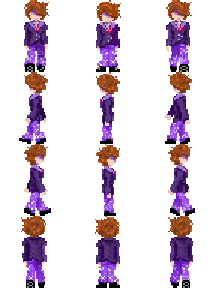
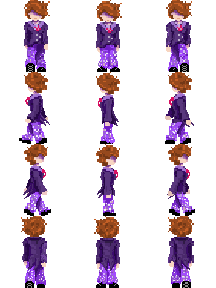
adding jiho, changing lenora sprites, altering lighting

diff --git a/Pelagic Vortex/js/plugins.js b/Pelagic Vortex/js/plugins.js
@@ -8,7 +8,7 @@ var $plugins =
 {"name":"ShakeScreen","status":true,"description":"Simply shakes the screen","parameters":{}},
 {"name":"GALV_MessageSoundEffects","status":true,"description":"Play sound effects when during Show Text event commands.","parameters":{"Delay Time":"5","Default Talk SE":"snd_talk,80,100","Default Confirm SE":"Cursor2,0,100","-----------":"","Quick SE 1":"snd_talk,80,60","Quick SE 2":"snd_tentacletalk,80,100","Quick SE 3":"snd_narrator,80,100","Quick SE 4":""}},
 {"name":"DMY_SkipVideo","status":true,"description":"Skip video on key press","parameters":{"Disabler switch":"0"}},
-{"name":"-ShoraLighting-","status":true,"description":"[v1.8.3] Provide dynamic lighting to RPG Maker MV/MZ engine, intended to be easiest to start and most flexible when advanced!","parameters":{"sep":"","Game":"{\"regionStart\":\"1\",\"regionEnd\":\"10\",\"topRegionId\":\"50\",\"ignoreShadowsId\":\"51\"}","sep0":"","Map":"{\"ambient\":\"#525252\",\"shadowAmbient\":\"#333333\",\"topBlockAmbient\":\"#333333\"}","sep1":"","default":"{\"name\":\"default\",\"filename\":\"lights\",\"status\":\"true\",\"radius\":\"100\",\"angle\":\"0\",\"direction\":\"false\",\"sep0\":\"\",\"tint\":\"#ffffff\",\"colorfilter\":\"{\\\"hue\\\":\\\"0\\\",\\\"colortone\\\":\\\"rgba(0,0,0,0)\\\",\\\"blendcolor\\\":\\\"rgba(0,0,0,0)\\\",\\\"brightness\\\":\\\"255\\\"}\",\"sep1\":\"\",\"offset\":\"{\\\"x\\\":\\\"0\\\",\\\"y\\\":\\\"0\\\"}\",\"animation\":\"{\\\".Static\\\":\\\"=====================\\\",\\\"flicker\\\":\\\"{\\\\\\\"status\\\\\\\":\\\\\\\"true\\\\\\\",\\\\\\\"flickintensity\\\\\\\":\\\\\\\"1\\\\\\\",\\\\\\\"flickspeed\\\\\\\":\\\\\\\"1\\\\\\\"}\\\",\\\".Dynamic\\\":\\\"=====================\\\",\\\"pulse\\\":\\\"{\\\\\\\"status\\\\\\\":\\\\\\\"false\\\\\\\",\\\\\\\"pulsefactor\\\\\\\":\\\\\\\"1\\\\\\\",\\\\\\\"pulsespeed\\\\\\\":\\\\\\\"1\\\\\\\"}\\\",\\\"rotation\\\":\\\"{\\\\\\\"rotatespeed\\\\\\\":\\\\\\\"1\\\\\\\"}\\\"}\",\"sep4\":\"\",\"shadow\":\"true\",\"bwall\":\"false\",\"shadowambient\":\"\",\"shadowoffsetx\":\"0\",\"shadowoffsety\":\"0\"}","LightList":"[\"{\\\"name\\\":\\\"glow\\\",\\\"filename\\\":\\\"fireglow\\\",\\\"status\\\":\\\"true\\\",\\\"radius\\\":\\\"100\\\",\\\"angle\\\":\\\"0\\\",\\\"direction\\\":\\\"false\\\",\\\"sep0\\\":\\\"\\\",\\\"tint\\\":\\\"#ffffff\\\",\\\"colorfilter\\\":\\\"{\\\\\\\"hue\\\\\\\":\\\\\\\"0\\\\\\\",\\\\\\\"colortone\\\\\\\":\\\\\\\"rgba(0,0,0,0)\\\\\\\",\\\\\\\"blendcolor\\\\\\\":\\\\\\\"rgba(0,0,0,0)\\\\\\\",\\\\\\\"brightness\\\\\\\":\\\\\\\"255\\\\\\\"}\\\",\\\"sep1\\\":\\\"\\\",\\\"offset\\\":\\\"{\\\\\\\"x\\\\\\\":\\\\\\\"0\\\\\\\",\\\\\\\"y\\\\\\\":\\\\\\\"0\\\\\\\"}\\\",\\\"animation\\\":\\\"{\\\\\\\".Static\\\\\\\":\\\\\\\"=====================\\\\\\\",\\\\\\\"flicker\\\\\\\":\\\\\\\"{\\\\\\\\\\\\\\\"status\\\\\\\\\\\\\\\":\\\\\\\\\\\\\\\"true\\\\\\\\\\\\\\\",\\\\\\\\\\\\\\\"flickintensity\\\\\\\\\\\\\\\":\\\\\\\\\\\\\\\"3\\\\\\\\\\\\\\\",\\\\\\\\\\\\\\\"flickspeed\\\\\\\\\\\\\\\":\\\\\\\\\\\\\\\"2\\\\\\\\\\\\\\\"}\\\\\\\",\\\\\\\".Dynamic\\\\\\\":\\\\\\\"=====================\\\\\\\",\\\\\\\"pulse\\\\\\\":\\\\\\\"{\\\\\\\\\\\\\\\"status\\\\\\\\\\\\\\\":\\\\\\\\\\\\\\\"false\\\\\\\\\\\\\\\",\\\\\\\\\\\\\\\"pulsefactor\\\\\\\\\\\\\\\":\\\\\\\\\\\\\\\"1\\\\\\\\\\\\\\\",\\\\\\\\\\\\\\\"pulsespeed\\\\\\\\\\\\\\\":\\\\\\\\\\\\\\\"1\\\\\\\\\\\\\\\"}\\\\\\\",\\\\\\\"rotation\\\\\\\":\\\\\\\"{\\\\\\\\\\\\\\\"rotatespeed\\\\\\\\\\\\\\\":\\\\\\\\\\\\\\\"1\\\\\\\\\\\\\\\"}\\\\\\\"}\\\",\\\"sep4\\\":\\\"\\\",\\\"shadow\\\":\\\"true\\\",\\\"bwall\\\":\\\"false\\\",\\\"shadowambient\\\":\\\"\\\",\\\"shadowoffsetx\\\":\\\"0\\\",\\\"shadowoffsety\\\":\\\"0\\\"}\",\"{\\\"name\\\":\\\"redlight\\\",\\\"filename\\\":\\\"redlights\\\",\\\"status\\\":\\\"true\\\",\\\"radius\\\":\\\"150\\\",\\\"angle\\\":\\\"0\\\",\\\"direction\\\":\\\"false\\\",\\\"sep0\\\":\\\"\\\",\\\"tint\\\":\\\"#ffffff\\\",\\\"colorfilter\\\":\\\"{\\\\\\\"hue\\\\\\\":\\\\\\\"0\\\\\\\",\\\\\\\"colortone\\\\\\\":\\\\\\\"rgba(0,0,0,0)\\\\\\\",\\\\\\\"blendcolor\\\\\\\":\\\\\\\"rgba(0,0,0,0)\\\\\\\",\\\\\\\"brightness\\\\\\\":\\\\\\\"255\\\\\\\"}\\\",\\\"sep1\\\":\\\"\\\",\\\"offset\\\":\\\"{\\\\\\\"x\\\\\\\":\\\\\\\"0\\\\\\\",\\\\\\\"y\\\\\\\":\\\\\\\"0\\\\\\\"}\\\",\\\"animation\\\":\\\"{\\\\\\\".Static\\\\\\\":\\\\\\\"=====================\\\\\\\",\\\\\\\"flicker\\\\\\\":\\\\\\\"{\\\\\\\\\\\\\\\"status\\\\\\\\\\\\\\\":\\\\\\\\\\\\\\\"true\\\\\\\\\\\\\\\",\\\\\\\\\\\\\\\"flickintensity\\\\\\\\\\\\\\\":\\\\\\\\\\\\\\\"2\\\\\\\\\\\\\\\",\\\\\\\\\\\\\\\"flickspeed\\\\\\\\\\\\\\\":\\\\\\\\\\\\\\\"2\\\\\\\\\\\\\\\"}\\\\\\\",\\\\\\\".Dynamic\\\\\\\":\\\\\\\"=====================\\\\\\\",\\\\\\\"pulse\\\\\\\":\\\\\\\"{\\\\\\\\\\\\\\\"status\\\\\\\\\\\\\\\":\\\\\\\\\\\\\\\"false\\\\\\\\\\\\\\\",\\\\\\\\\\\\\\\"pulsefactor\\\\\\\\\\\\\\\":\\\\\\\\\\\\\\\"1\\\\\\\\\\\\\\\",\\\\\\\\\\\\\\\"pulsespeed\\\\\\\\\\\\\\\":\\\\\\\\\\\\\\\"1\\\\\\\\\\\\\\\"}\\\\\\\",\\\\\\\"rotation\\\\\\\":\\\\\\\"{\\\\\\\\\\\\\\\"rotatespeed\\\\\\\\\\\\\\\":\\\\\\\\\\\\\\\"1\\\\\\\\\\\\\\\"}\\\\\\\"}\\\",\\\"sep4\\\":\\\"\\\",\\\"shadow\\\":\\\"true\\\",\\\"bwall\\\":\\\"false\\\",\\\"shadowambient\\\":\\\"\\\",\\\"shadowoffsetx\\\":\\\"0\\\",\\\"shadowoffsety\\\":\\\"0\\\"}\",\"{\\\"name\\\":\\\"alarm\\\",\\\"filename\\\":\\\"alarm\\\",\\\"status\\\":\\\"true\\\",\\\"radius\\\":\\\"150\\\",\\\"angle\\\":\\\"0\\\",\\\"direction\\\":\\\"false\\\",\\\"sep0\\\":\\\"\\\",\\\"tint\\\":\\\"#ffffff\\\",\\\"colorfilter\\\":\\\"{\\\\\\\"hue\\\\\\\":\\\\\\\"0\\\\\\\",\\\\\\\"colortone\\\\\\\":\\\\\\\"rgba(0,0,0,0)\\\\\\\",\\\\\\\"blendcolor\\\\\\\":\\\\\\\"rgba(0,0,0,0)\\\\\\\",\\\\\\\"brightness\\\\\\\":\\\\\\\"255\\\\\\\"}\\\",\\\"sep1\\\":\\\"\\\",\\\"offset\\\":\\\"{\\\\\\\"x\\\\\\\":\\\\\\\"0\\\\\\\",\\\\\\\"y\\\\\\\":\\\\\\\"20\\\\\\\"}\\\",\\\"animation\\\":\\\"{\\\\\\\".Static\\\\\\\":\\\\\\\"=====================\\\\\\\",\\\\\\\"flicker\\\\\\\":\\\\\\\"{\\\\\\\\\\\\\\\"status\\\\\\\\\\\\\\\":\\\\\\\\\\\\\\\"true\\\\\\\\\\\\\\\",\\\\\\\\\\\\\\\"flickintensity\\\\\\\\\\\\\\\":\\\\\\\\\\\\\\\"10\\\\\\\\\\\\\\\",\\\\\\\\\\\\\\\"flickspeed\\\\\\\\\\\\\\\":\\\\\\\\\\\\\\\"5\\\\\\\\\\\\\\\"}\\\\\\\",\\\\\\\".Dynamic\\\\\\\":\\\\\\\"=====================\\\\\\\",\\\\\\\"pulse\\\\\\\":\\\\\\\"{\\\\\\\\\\\\\\\"status\\\\\\\\\\\\\\\":\\\\\\\\\\\\\\\"false\\\\\\\\\\\\\\\",\\\\\\\\\\\\\\\"pulsefactor\\\\\\\\\\\\\\\":\\\\\\\\\\\\\\\"20\\\\\\\\\\\\\\\",\\\\\\\\\\\\\\\"pulsespeed\\\\\\\\\\\\\\\":\\\\\\\\\\\\\\\"20\\\\\\\\\\\\\\\"}\\\\\\\",\\\\\\\"rotation\\\\\\\":\\\\\\\"{\\\\\\\\\\\\\\\"rotatespeed\\\\\\\\\\\\\\\":\\\\\\\\\\\\\\\"2\\\\\\\\\\\\\\\"}\\\\\\\"}\\\",\\\"sep4\\\":\\\"\\\",\\\"shadow\\\":\\\"true\\\",\\\"bwall\\\":\\\"false\\\",\\\"shadowambient\\\":\\\"\\\",\\\"shadowoffsetx\\\":\\\"0\\\",\\\"shadowoffsety\\\":\\\"0\\\"}\",\"{\\\"name\\\":\\\"beam\\\",\\\"filename\\\":\\\"beam\\\",\\\"status\\\":\\\"true\\\",\\\"radius\\\":\\\"50\\\",\\\"angle\\\":\\\"0\\\",\\\"direction\\\":\\\"false\\\",\\\"sep0\\\":\\\"\\\",\\\"tint\\\":\\\"#ffffff\\\",\\\"colorfilter\\\":\\\"{\\\\\\\"hue\\\\\\\":\\\\\\\"0\\\\\\\",\\\\\\\"colortone\\\\\\\":\\\\\\\"rgba(0,0,0,0)\\\\\\\",\\\\\\\"blendcolor\\\\\\\":\\\\\\\"rgba(0,0,0,0)\\\\\\\",\\\\\\\"brightness\\\\\\\":\\\\\\\"255\\\\\\\"}\\\",\\\"sep1\\\":\\\"\\\",\\\"offset\\\":\\\"{\\\\\\\"x\\\\\\\":\\\\\\\"0\\\\\\\",\\\\\\\"y\\\\\\\":\\\\\\\"0\\\\\\\"}\\\",\\\"animation\\\":\\\"{\\\\\\\".Static\\\\\\\":\\\\\\\"=====================\\\\\\\",\\\\\\\"flicker\\\\\\\":\\\\\\\"{\\\\\\\\\\\\\\\"status\\\\\\\\\\\\\\\":\\\\\\\\\\\\\\\"false\\\\\\\\\\\\\\\",\\\\\\\\\\\\\\\"flickintensity\\\\\\\\\\\\\\\":\\\\\\\\\\\\\\\"1\\\\\\\\\\\\\\\",\\\\\\\\\\\\\\\"flickspeed\\\\\\\\\\\\\\\":\\\\\\\\\\\\\\\"1\\\\\\\\\\\\\\\"}\\\\\\\",\\\\\\\".Dynamic\\\\\\\":\\\\\\\"=====================\\\\\\\",\\\\\\\"pulse\\\\\\\":\\\\\\\"{\\\\\\\\\\\\\\\"status\\\\\\\\\\\\\\\":\\\\\\\\\\\\\\\"false\\\\\\\\\\\\\\\",\\\\\\\\\\\\\\\"pulsefactor\\\\\\\\\\\\\\\":\\\\\\\\\\\\\\\"1\\\\\\\\\\\\\\\",\\\\\\\\\\\\\\\"pulsespeed\\\\\\\\\\\\\\\":\\\\\\\\\\\\\\\"1\\\\\\\\\\\\\\\"}\\\\\\\",\\\\\\\"rotation\\\\\\\":\\\\\\\"{\\\\\\\\\\\\\\\"rotatespeed\\\\\\\\\\\\\\\":\\\\\\\\\\\\\\\"1\\\\\\\\\\\\\\\"}\\\\\\\"}\\\",\\\"sep4\\\":\\\"\\\",\\\"shadow\\\":\\\"true\\\",\\\"bwall\\\":\\\"false\\\",\\\"shadowambient\\\":\\\"\\\",\\\"shadowoffsetx\\\":\\\"0\\\",\\\"shadowoffsety\\\":\\\"0\\\"}\",\"{\\\"name\\\":\\\"bottombeam\\\",\\\"filename\\\":\\\"bottombeam\\\",\\\"status\\\":\\\"true\\\",\\\"radius\\\":\\\"50\\\",\\\"angle\\\":\\\"0\\\",\\\"direction\\\":\\\"false\\\",\\\"sep0\\\":\\\"\\\",\\\"tint\\\":\\\"#ffffff\\\",\\\"colorfilter\\\":\\\"{\\\\\\\"hue\\\\\\\":\\\\\\\"0\\\\\\\",\\\\\\\"colortone\\\\\\\":\\\\\\\"rgba(0,0,0,0)\\\\\\\",\\\\\\\"blendcolor\\\\\\\":\\\\\\\"rgba(0,0,0,0)\\\\\\\",\\\\\\\"brightness\\\\\\\":\\\\\\\"255\\\\\\\"}\\\",\\\"sep1\\\":\\\"\\\",\\\"offset\\\":\\\"{\\\\\\\"x\\\\\\\":\\\\\\\"0\\\\\\\",\\\\\\\"y\\\\\\\":\\\\\\\"0\\\\\\\"}\\\",\\\"animation\\\":\\\"{\\\\\\\".Static\\\\\\\":\\\\\\\"=====================\\\\\\\",\\\\\\\"flicker\\\\\\\":\\\\\\\"{\\\\\\\\\\\\\\\"status\\\\\\\\\\\\\\\":\\\\\\\\\\\\\\\"true\\\\\\\\\\\\\\\",\\\\\\\\\\\\\\\"flickintensity\\\\\\\\\\\\\\\":\\\\\\\\\\\\\\\"1\\\\\\\\\\\\\\\",\\\\\\\\\\\\\\\"flickspeed\\\\\\\\\\\\\\\":\\\\\\\\\\\\\\\"1\\\\\\\\\\\\\\\"}\\\\\\\",\\\\\\\".Dynamic\\\\\\\":\\\\\\\"=====================\\\\\\\",\\\\\\\"pulse\\\\\\\":\\\\\\\"{\\\\\\\\\\\\\\\"status\\\\\\\\\\\\\\\":\\\\\\\\\\\\\\\"false\\\\\\\\\\\\\\\",\\\\\\\\\\\\\\\"pulsefactor\\\\\\\\\\\\\\\":\\\\\\\\\\\\\\\"1\\\\\\\\\\\\\\\",\\\\\\\\\\\\\\\"pulsespeed\\\\\\\\\\\\\\\":\\\\\\\\\\\\\\\"1\\\\\\\\\\\\\\\"}\\\\\\\",\\\\\\\"rotation\\\\\\\":\\\\\\\"{\\\\\\\\\\\\\\\"rotatespeed\\\\\\\\\\\\\\\":\\\\\\\\\\\\\\\"1\\\\\\\\\\\\\\\"}\\\\\\\"}\\\",\\\"sep4\\\":\\\"\\\",\\\"shadow\\\":\\\"true\\\",\\\"bwall\\\":\\\"false\\\",\\\"shadowambient\\\":\\\"\\\",\\\"shadowoffsetx\\\":\\\"0\\\",\\\"shadowoffsety\\\":\\\"0\\\"}\"]","sep2":"","helper":"{\"colors\":\"[\\\"{\\\\\\\"name\\\\\\\":\\\\\\\"white\\\\\\\",\\\\\\\"color\\\\\\\":\\\\\\\"#ffffff\\\\\\\"}\\\",\\\"{\\\\\\\"name\\\\\\\":\\\\\\\"black\\\\\\\",\\\\\\\"color\\\\\\\":\\\\\\\"#000000\\\\\\\"}\\\",\\\"{\\\\\\\"name\\\\\\\":\\\\\\\"red\\\\\\\",\\\\\\\"color\\\\\\\":\\\\\\\"#ff000000\\\\\\\"}\\\",\\\"{\\\\\\\"name\\\\\\\":\\\\\\\"green\\\\\\\",\\\\\\\"color\\\\\\\":\\\\\\\"#00ff00\\\\\\\"}\\\",\\\"{\\\\\\\"name\\\\\\\":\\\\\\\"blue\\\\\\\",\\\\\\\"color\\\\\\\":\\\\\\\"#0000ff\\\\\\\"}\\\",\\\"{\\\\\\\"name\\\\\\\":\\\\\\\"orange\\\\\\\",\\\\\\\"color\\\\\\\":\\\\\\\"#ffa500\\\\\\\"}\\\",\\\"{\\\\\\\"name\\\\\\\":\\\\\\\"cyan\\\\\\\",\\\\\\\"color\\\\\\\":\\\\\\\"#00ffff\\\\\\\"}\\\",\\\"{\\\\\\\"name\\\\\\\":\\\\\\\"pink\\\\\\\",\\\\\\\"color\\\\\\\":\\\\\\\"#ffc0cb\\\\\\\"}\\\"]\",\"disableEngineShadow\":\"true\"}","sep3":"","filter":"{\"il\":\"\",\"status\":\"false\",\"brightness\":\"1.3\",\"sep\":\"\",\"ss\":\"\",\"softShadow\":\"true\",\"softShadowStr\":\"1\",\"softShadowQlt\":\"2\"}"}},
+{"name":"-ShoraLighting-","status":true,"description":"[v1.8.3] Provide dynamic lighting to RPG Maker MV/MZ engine, intended to be easiest to start and most flexible when advanced!","parameters":{"sep":"","Game":"{\"regionStart\":\"1\",\"regionEnd\":\"10\",\"topRegionId\":\"50\",\"ignoreShadowsId\":\"51\"}","sep0":"","Map":"{\"ambient\":\"#525252\",\"shadowAmbient\":\"#333333\",\"topBlockAmbient\":\"#333333\"}","sep1":"","default":"{\"name\":\"default\",\"filename\":\"lights\",\"status\":\"true\",\"radius\":\"100\",\"angle\":\"0\",\"direction\":\"false\",\"sep0\":\"\",\"tint\":\"#ffffff\",\"colorfilter\":\"{\\\"hue\\\":\\\"0\\\",\\\"colortone\\\":\\\"rgba(0,0,0,0)\\\",\\\"blendcolor\\\":\\\"rgba(0,0,0,0)\\\",\\\"brightness\\\":\\\"255\\\"}\",\"sep1\":\"\",\"offset\":\"{\\\"x\\\":\\\"0\\\",\\\"y\\\":\\\"0\\\"}\",\"animation\":\"{\\\".Static\\\":\\\"=====================\\\",\\\"flicker\\\":\\\"{\\\\\\\"status\\\\\\\":\\\\\\\"true\\\\\\\",\\\\\\\"flickintensity\\\\\\\":\\\\\\\"1\\\\\\\",\\\\\\\"flickspeed\\\\\\\":\\\\\\\"1\\\\\\\"}\\\",\\\".Dynamic\\\":\\\"=====================\\\",\\\"pulse\\\":\\\"{\\\\\\\"status\\\\\\\":\\\\\\\"false\\\\\\\",\\\\\\\"pulsefactor\\\\\\\":\\\\\\\"1\\\\\\\",\\\\\\\"pulsespeed\\\\\\\":\\\\\\\"1\\\\\\\"}\\\",\\\"rotation\\\":\\\"{\\\\\\\"rotatespeed\\\\\\\":\\\\\\\"1\\\\\\\"}\\\"}\",\"sep4\":\"\",\"shadow\":\"true\",\"bwall\":\"false\",\"shadowambient\":\"\",\"shadowoffsetx\":\"0\",\"shadowoffsety\":\"0\"}","LightList":"[\"{\\\"name\\\":\\\"glow\\\",\\\"filename\\\":\\\"fireglow\\\",\\\"status\\\":\\\"true\\\",\\\"radius\\\":\\\"100\\\",\\\"angle\\\":\\\"0\\\",\\\"direction\\\":\\\"false\\\",\\\"sep0\\\":\\\"\\\",\\\"tint\\\":\\\"#ffffff\\\",\\\"colorfilter\\\":\\\"{\\\\\\\"hue\\\\\\\":\\\\\\\"0\\\\\\\",\\\\\\\"colortone\\\\\\\":\\\\\\\"rgba(0,0,0,0)\\\\\\\",\\\\\\\"blendcolor\\\\\\\":\\\\\\\"rgba(0,0,0,0)\\\\\\\",\\\\\\\"brightness\\\\\\\":\\\\\\\"255\\\\\\\"}\\\",\\\"sep1\\\":\\\"\\\",\\\"offset\\\":\\\"{\\\\\\\"x\\\\\\\":\\\\\\\"0\\\\\\\",\\\\\\\"y\\\\\\\":\\\\\\\"0\\\\\\\"}\\\",\\\"animation\\\":\\\"{\\\\\\\".Static\\\\\\\":\\\\\\\"=====================\\\\\\\",\\\\\\\"flicker\\\\\\\":\\\\\\\"{\\\\\\\\\\\\\\\"status\\\\\\\\\\\\\\\":\\\\\\\\\\\\\\\"true\\\\\\\\\\\\\\\",\\\\\\\\\\\\\\\"flickintensity\\\\\\\\\\\\\\\":\\\\\\\\\\\\\\\"3\\\\\\\\\\\\\\\",\\\\\\\\\\\\\\\"flickspeed\\\\\\\\\\\\\\\":\\\\\\\\\\\\\\\"2\\\\\\\\\\\\\\\"}\\\\\\\",\\\\\\\".Dynamic\\\\\\\":\\\\\\\"=====================\\\\\\\",\\\\\\\"pulse\\\\\\\":\\\\\\\"{\\\\\\\\\\\\\\\"status\\\\\\\\\\\\\\\":\\\\\\\\\\\\\\\"false\\\\\\\\\\\\\\\",\\\\\\\\\\\\\\\"pulsefactor\\\\\\\\\\\\\\\":\\\\\\\\\\\\\\\"1\\\\\\\\\\\\\\\",\\\\\\\\\\\\\\\"pulsespeed\\\\\\\\\\\\\\\":\\\\\\\\\\\\\\\"1\\\\\\\\\\\\\\\"}\\\\\\\",\\\\\\\"rotation\\\\\\\":\\\\\\\"{\\\\\\\\\\\\\\\"rotatespeed\\\\\\\\\\\\\\\":\\\\\\\\\\\\\\\"1\\\\\\\\\\\\\\\"}\\\\\\\"}\\\",\\\"sep4\\\":\\\"\\\",\\\"shadow\\\":\\\"true\\\",\\\"bwall\\\":\\\"false\\\",\\\"shadowambient\\\":\\\"\\\",\\\"shadowoffsetx\\\":\\\"0\\\",\\\"shadowoffsety\\\":\\\"0\\\"}\",\"{\\\"name\\\":\\\"redlight\\\",\\\"filename\\\":\\\"redlights\\\",\\\"status\\\":\\\"true\\\",\\\"radius\\\":\\\"150\\\",\\\"angle\\\":\\\"0\\\",\\\"direction\\\":\\\"false\\\",\\\"sep0\\\":\\\"\\\",\\\"tint\\\":\\\"#ffffff\\\",\\\"colorfilter\\\":\\\"{\\\\\\\"hue\\\\\\\":\\\\\\\"0\\\\\\\",\\\\\\\"colortone\\\\\\\":\\\\\\\"rgba(0,0,0,0)\\\\\\\",\\\\\\\"blendcolor\\\\\\\":\\\\\\\"rgba(0,0,0,0)\\\\\\\",\\\\\\\"brightness\\\\\\\":\\\\\\\"255\\\\\\\"}\\\",\\\"sep1\\\":\\\"\\\",\\\"offset\\\":\\\"{\\\\\\\"x\\\\\\\":\\\\\\\"0\\\\\\\",\\\\\\\"y\\\\\\\":\\\\\\\"0\\\\\\\"}\\\",\\\"animation\\\":\\\"{\\\\\\\".Static\\\\\\\":\\\\\\\"=====================\\\\\\\",\\\\\\\"flicker\\\\\\\":\\\\\\\"{\\\\\\\\\\\\\\\"status\\\\\\\\\\\\\\\":\\\\\\\\\\\\\\\"true\\\\\\\\\\\\\\\",\\\\\\\\\\\\\\\"flickintensity\\\\\\\\\\\\\\\":\\\\\\\\\\\\\\\"2\\\\\\\\\\\\\\\",\\\\\\\\\\\\\\\"flickspeed\\\\\\\\\\\\\\\":\\\\\\\\\\\\\\\"2\\\\\\\\\\\\\\\"}\\\\\\\",\\\\\\\".Dynamic\\\\\\\":\\\\\\\"=====================\\\\\\\",\\\\\\\"pulse\\\\\\\":\\\\\\\"{\\\\\\\\\\\\\\\"status\\\\\\\\\\\\\\\":\\\\\\\\\\\\\\\"false\\\\\\\\\\\\\\\",\\\\\\\\\\\\\\\"pulsefactor\\\\\\\\\\\\\\\":\\\\\\\\\\\\\\\"1\\\\\\\\\\\\\\\",\\\\\\\\\\\\\\\"pulsespeed\\\\\\\\\\\\\\\":\\\\\\\\\\\\\\\"1\\\\\\\\\\\\\\\"}\\\\\\\",\\\\\\\"rotation\\\\\\\":\\\\\\\"{\\\\\\\\\\\\\\\"rotatespeed\\\\\\\\\\\\\\\":\\\\\\\\\\\\\\\"1\\\\\\\\\\\\\\\"}\\\\\\\"}\\\",\\\"sep4\\\":\\\"\\\",\\\"shadow\\\":\\\"true\\\",\\\"bwall\\\":\\\"false\\\",\\\"shadowambient\\\":\\\"\\\",\\\"shadowoffsetx\\\":\\\"0\\\",\\\"shadowoffsety\\\":\\\"0\\\"}\",\"{\\\"name\\\":\\\"alarm\\\",\\\"filename\\\":\\\"alarm\\\",\\\"status\\\":\\\"true\\\",\\\"radius\\\":\\\"150\\\",\\\"angle\\\":\\\"0\\\",\\\"direction\\\":\\\"false\\\",\\\"sep0\\\":\\\"\\\",\\\"tint\\\":\\\"#ffffff\\\",\\\"colorfilter\\\":\\\"{\\\\\\\"hue\\\\\\\":\\\\\\\"0\\\\\\\",\\\\\\\"colortone\\\\\\\":\\\\\\\"rgba(0,0,0,0)\\\\\\\",\\\\\\\"blendcolor\\\\\\\":\\\\\\\"rgba(0,0,0,0)\\\\\\\",\\\\\\\"brightness\\\\\\\":\\\\\\\"255\\\\\\\"}\\\",\\\"sep1\\\":\\\"\\\",\\\"offset\\\":\\\"{\\\\\\\"x\\\\\\\":\\\\\\\"0\\\\\\\",\\\\\\\"y\\\\\\\":\\\\\\\"20\\\\\\\"}\\\",\\\"animation\\\":\\\"{\\\\\\\".Static\\\\\\\":\\\\\\\"=====================\\\\\\\",\\\\\\\"flicker\\\\\\\":\\\\\\\"{\\\\\\\\\\\\\\\"status\\\\\\\\\\\\\\\":\\\\\\\\\\\\\\\"true\\\\\\\\\\\\\\\",\\\\\\\\\\\\\\\"flickintensity\\\\\\\\\\\\\\\":\\\\\\\\\\\\\\\"10\\\\\\\\\\\\\\\",\\\\\\\\\\\\\\\"flickspeed\\\\\\\\\\\\\\\":\\\\\\\\\\\\\\\"5\\\\\\\\\\\\\\\"}\\\\\\\",\\\\\\\".Dynamic\\\\\\\":\\\\\\\"=====================\\\\\\\",\\\\\\\"pulse\\\\\\\":\\\\\\\"{\\\\\\\\\\\\\\\"status\\\\\\\\\\\\\\\":\\\\\\\\\\\\\\\"false\\\\\\\\\\\\\\\",\\\\\\\\\\\\\\\"pulsefactor\\\\\\\\\\\\\\\":\\\\\\\\\\\\\\\"20\\\\\\\\\\\\\\\",\\\\\\\\\\\\\\\"pulsespeed\\\\\\\\\\\\\\\":\\\\\\\\\\\\\\\"20\\\\\\\\\\\\\\\"}\\\\\\\",\\\\\\\"rotation\\\\\\\":\\\\\\\"{\\\\\\\\\\\\\\\"rotatespeed\\\\\\\\\\\\\\\":\\\\\\\\\\\\\\\"2\\\\\\\\\\\\\\\"}\\\\\\\"}\\\",\\\"sep4\\\":\\\"\\\",\\\"shadow\\\":\\\"true\\\",\\\"bwall\\\":\\\"false\\\",\\\"shadowambient\\\":\\\"\\\",\\\"shadowoffsetx\\\":\\\"0\\\",\\\"shadowoffsety\\\":\\\"0\\\"}\",\"{\\\"name\\\":\\\"beam\\\",\\\"filename\\\":\\\"beam\\\",\\\"status\\\":\\\"true\\\",\\\"radius\\\":\\\"50\\\",\\\"angle\\\":\\\"0\\\",\\\"direction\\\":\\\"false\\\",\\\"sep0\\\":\\\"\\\",\\\"tint\\\":\\\"#ffffff\\\",\\\"colorfilter\\\":\\\"{\\\\\\\"hue\\\\\\\":\\\\\\\"0\\\\\\\",\\\\\\\"colortone\\\\\\\":\\\\\\\"rgba(0,0,0,0)\\\\\\\",\\\\\\\"blendcolor\\\\\\\":\\\\\\\"rgba(0,0,0,0)\\\\\\\",\\\\\\\"brightness\\\\\\\":\\\\\\\"255\\\\\\\"}\\\",\\\"sep1\\\":\\\"\\\",\\\"offset\\\":\\\"{\\\\\\\"x\\\\\\\":\\\\\\\"0\\\\\\\",\\\\\\\"y\\\\\\\":\\\\\\\"0\\\\\\\"}\\\",\\\"animation\\\":\\\"{\\\\\\\".Static\\\\\\\":\\\\\\\"=====================\\\\\\\",\\\\\\\"flicker\\\\\\\":\\\\\\\"{\\\\\\\\\\\\\\\"status\\\\\\\\\\\\\\\":\\\\\\\\\\\\\\\"false\\\\\\\\\\\\\\\",\\\\\\\\\\\\\\\"flickintensity\\\\\\\\\\\\\\\":\\\\\\\\\\\\\\\"1\\\\\\\\\\\\\\\",\\\\\\\\\\\\\\\"flickspeed\\\\\\\\\\\\\\\":\\\\\\\\\\\\\\\"1\\\\\\\\\\\\\\\"}\\\\\\\",\\\\\\\".Dynamic\\\\\\\":\\\\\\\"=====================\\\\\\\",\\\\\\\"pulse\\\\\\\":\\\\\\\"{\\\\\\\\\\\\\\\"status\\\\\\\\\\\\\\\":\\\\\\\\\\\\\\\"false\\\\\\\\\\\\\\\",\\\\\\\\\\\\\\\"pulsefactor\\\\\\\\\\\\\\\":\\\\\\\\\\\\\\\"1\\\\\\\\\\\\\\\",\\\\\\\\\\\\\\\"pulsespeed\\\\\\\\\\\\\\\":\\\\\\\\\\\\\\\"1\\\\\\\\\\\\\\\"}\\\\\\\",\\\\\\\"rotation\\\\\\\":\\\\\\\"{\\\\\\\\\\\\\\\"rotatespeed\\\\\\\\\\\\\\\":\\\\\\\\\\\\\\\"1\\\\\\\\\\\\\\\"}\\\\\\\"}\\\",\\\"sep4\\\":\\\"\\\",\\\"shadow\\\":\\\"true\\\",\\\"bwall\\\":\\\"false\\\",\\\"shadowambient\\\":\\\"\\\",\\\"shadowoffsetx\\\":\\\"0\\\",\\\"shadowoffsety\\\":\\\"0\\\"}\",\"{\\\"name\\\":\\\"bottombeam\\\",\\\"filename\\\":\\\"bottombeam\\\",\\\"status\\\":\\\"true\\\",\\\"radius\\\":\\\"50\\\",\\\"angle\\\":\\\"0\\\",\\\"direction\\\":\\\"false\\\",\\\"sep0\\\":\\\"\\\",\\\"tint\\\":\\\"#ffffff\\\",\\\"colorfilter\\\":\\\"{\\\\\\\"hue\\\\\\\":\\\\\\\"0\\\\\\\",\\\\\\\"colortone\\\\\\\":\\\\\\\"rgba(0,0,0,0)\\\\\\\",\\\\\\\"blendcolor\\\\\\\":\\\\\\\"rgba(0,0,0,0)\\\\\\\",\\\\\\\"brightness\\\\\\\":\\\\\\\"255\\\\\\\"}\\\",\\\"sep1\\\":\\\"\\\",\\\"offset\\\":\\\"{\\\\\\\"x\\\\\\\":\\\\\\\"0\\\\\\\",\\\\\\\"y\\\\\\\":\\\\\\\"0\\\\\\\"}\\\",\\\"animation\\\":\\\"{\\\\\\\".Static\\\\\\\":\\\\\\\"=====================\\\\\\\",\\\\\\\"flicker\\\\\\\":\\\\\\\"{\\\\\\\\\\\\\\\"status\\\\\\\\\\\\\\\":\\\\\\\\\\\\\\\"true\\\\\\\\\\\\\\\",\\\\\\\\\\\\\\\"flickintensity\\\\\\\\\\\\\\\":\\\\\\\\\\\\\\\"1\\\\\\\\\\\\\\\",\\\\\\\\\\\\\\\"flickspeed\\\\\\\\\\\\\\\":\\\\\\\\\\\\\\\"1\\\\\\\\\\\\\\\"}\\\\\\\",\\\\\\\".Dynamic\\\\\\\":\\\\\\\"=====================\\\\\\\",\\\\\\\"pulse\\\\\\\":\\\\\\\"{\\\\\\\\\\\\\\\"status\\\\\\\\\\\\\\\":\\\\\\\\\\\\\\\"false\\\\\\\\\\\\\\\",\\\\\\\\\\\\\\\"pulsefactor\\\\\\\\\\\\\\\":\\\\\\\\\\\\\\\"1\\\\\\\\\\\\\\\",\\\\\\\\\\\\\\\"pulsespeed\\\\\\\\\\\\\\\":\\\\\\\\\\\\\\\"1\\\\\\\\\\\\\\\"}\\\\\\\",\\\\\\\"rotation\\\\\\\":\\\\\\\"{\\\\\\\\\\\\\\\"rotatespeed\\\\\\\\\\\\\\\":\\\\\\\\\\\\\\\"1\\\\\\\\\\\\\\\"}\\\\\\\"}\\\",\\\"sep4\\\":\\\"\\\",\\\"shadow\\\":\\\"true\\\",\\\"bwall\\\":\\\"false\\\",\\\"shadowambient\\\":\\\"\\\",\\\"shadowoffsetx\\\":\\\"0\\\",\\\"shadowoffsety\\\":\\\"0\\\"}\",\"{\\\"name\\\":\\\"darkblue\\\",\\\"filename\\\":\\\"bluelight\\\",\\\"status\\\":\\\"true\\\",\\\"radius\\\":\\\"150\\\",\\\"angle\\\":\\\"0\\\",\\\"direction\\\":\\\"false\\\",\\\"sep0\\\":\\\"\\\",\\\"tint\\\":\\\"#ffffff\\\",\\\"colorfilter\\\":\\\"{\\\\\\\"hue\\\\\\\":\\\\\\\"0\\\\\\\",\\\\\\\"colortone\\\\\\\":\\\\\\\"rgba(0,0,0,0)\\\\\\\",\\\\\\\"blendcolor\\\\\\\":\\\\\\\"rgba(0,0,0,0)\\\\\\\",\\\\\\\"brightness\\\\\\\":\\\\\\\"255\\\\\\\"}\\\",\\\"sep1\\\":\\\"\\\",\\\"offset\\\":\\\"{\\\\\\\"x\\\\\\\":\\\\\\\"0\\\\\\\",\\\\\\\"y\\\\\\\":\\\\\\\"0\\\\\\\"}\\\",\\\"animation\\\":\\\"{\\\\\\\".Static\\\\\\\":\\\\\\\"=====================\\\\\\\",\\\\\\\"flicker\\\\\\\":\\\\\\\"{\\\\\\\\\\\\\\\"status\\\\\\\\\\\\\\\":\\\\\\\\\\\\\\\"true\\\\\\\\\\\\\\\",\\\\\\\\\\\\\\\"flickintensity\\\\\\\\\\\\\\\":\\\\\\\\\\\\\\\"1\\\\\\\\\\\\\\\",\\\\\\\\\\\\\\\"flickspeed\\\\\\\\\\\\\\\":\\\\\\\\\\\\\\\"1\\\\\\\\\\\\\\\"}\\\\\\\",\\\\\\\".Dynamic\\\\\\\":\\\\\\\"=====================\\\\\\\",\\\\\\\"pulse\\\\\\\":\\\\\\\"{\\\\\\\\\\\\\\\"status\\\\\\\\\\\\\\\":\\\\\\\\\\\\\\\"false\\\\\\\\\\\\\\\",\\\\\\\\\\\\\\\"pulsefactor\\\\\\\\\\\\\\\":\\\\\\\\\\\\\\\"1\\\\\\\\\\\\\\\",\\\\\\\\\\\\\\\"pulsespeed\\\\\\\\\\\\\\\":\\\\\\\\\\\\\\\"1\\\\\\\\\\\\\\\"}\\\\\\\",\\\\\\\"rotation\\\\\\\":\\\\\\\"{\\\\\\\\\\\\\\\"rotatespeed\\\\\\\\\\\\\\\":\\\\\\\\\\\\\\\"1\\\\\\\\\\\\\\\"}\\\\\\\"}\\\",\\\"sep4\\\":\\\"\\\",\\\"shadow\\\":\\\"true\\\",\\\"bwall\\\":\\\"false\\\",\\\"shadowambient\\\":\\\"\\\",\\\"shadowoffsetx\\\":\\\"0\\\",\\\"shadowoffsety\\\":\\\"0\\\"}\",\"{\\\"name\\\":\\\"lightblue\\\",\\\"filename\\\":\\\"slightblue\\\",\\\"status\\\":\\\"true\\\",\\\"radius\\\":\\\"100\\\",\\\"angle\\\":\\\"0\\\",\\\"direction\\\":\\\"false\\\",\\\"sep0\\\":\\\"\\\",\\\"tint\\\":\\\"#ffffff\\\",\\\"colorfilter\\\":\\\"{\\\\\\\"hue\\\\\\\":\\\\\\\"0\\\\\\\",\\\\\\\"colortone\\\\\\\":\\\\\\\"rgba(0,0,0,0)\\\\\\\",\\\\\\\"blendcolor\\\\\\\":\\\\\\\"rgba(0,0,0,0)\\\\\\\",\\\\\\\"brightness\\\\\\\":\\\\\\\"255\\\\\\\"}\\\",\\\"sep1\\\":\\\"\\\",\\\"offset\\\":\\\"{\\\\\\\"x\\\\\\\":\\\\\\\"0\\\\\\\",\\\\\\\"y\\\\\\\":\\\\\\\"0\\\\\\\"}\\\",\\\"animation\\\":\\\"{\\\\\\\".Static\\\\\\\":\\\\\\\"=====================\\\\\\\",\\\\\\\"flicker\\\\\\\":\\\\\\\"{\\\\\\\\\\\\\\\"status\\\\\\\\\\\\\\\":\\\\\\\\\\\\\\\"true\\\\\\\\\\\\\\\",\\\\\\\\\\\\\\\"flickintensity\\\\\\\\\\\\\\\":\\\\\\\\\\\\\\\"1\\\\\\\\\\\\\\\",\\\\\\\\\\\\\\\"flickspeed\\\\\\\\\\\\\\\":\\\\\\\\\\\\\\\"1\\\\\\\\\\\\\\\"}\\\\\\\",\\\\\\\".Dynamic\\\\\\\":\\\\\\\"=====================\\\\\\\",\\\\\\\"pulse\\\\\\\":\\\\\\\"{\\\\\\\\\\\\\\\"status\\\\\\\\\\\\\\\":\\\\\\\\\\\\\\\"false\\\\\\\\\\\\\\\",\\\\\\\\\\\\\\\"pulsefactor\\\\\\\\\\\\\\\":\\\\\\\\\\\\\\\"1\\\\\\\\\\\\\\\",\\\\\\\\\\\\\\\"pulsespeed\\\\\\\\\\\\\\\":\\\\\\\\\\\\\\\"1\\\\\\\\\\\\\\\"}\\\\\\\",\\\\\\\"rotation\\\\\\\":\\\\\\\"{\\\\\\\\\\\\\\\"rotatespeed\\\\\\\\\\\\\\\":\\\\\\\\\\\\\\\"1\\\\\\\\\\\\\\\"}\\\\\\\"}\\\",\\\"sep4\\\":\\\"\\\",\\\"shadow\\\":\\\"true\\\",\\\"bwall\\\":\\\"false\\\",\\\"shadowambient\\\":\\\"\\\",\\\"shadowoffsetx\\\":\\\"0\\\",\\\"shadowoffsety\\\":\\\"0\\\"}\"]","sep2":"","helper":"{\"colors\":\"[\\\"{\\\\\\\"name\\\\\\\":\\\\\\\"white\\\\\\\",\\\\\\\"color\\\\\\\":\\\\\\\"#ffffff\\\\\\\"}\\\",\\\"{\\\\\\\"name\\\\\\\":\\\\\\\"black\\\\\\\",\\\\\\\"color\\\\\\\":\\\\\\\"#000000\\\\\\\"}\\\",\\\"{\\\\\\\"name\\\\\\\":\\\\\\\"red\\\\\\\",\\\\\\\"color\\\\\\\":\\\\\\\"#ff000000\\\\\\\"}\\\",\\\"{\\\\\\\"name\\\\\\\":\\\\\\\"green\\\\\\\",\\\\\\\"color\\\\\\\":\\\\\\\"#00ff00\\\\\\\"}\\\",\\\"{\\\\\\\"name\\\\\\\":\\\\\\\"blue\\\\\\\",\\\\\\\"color\\\\\\\":\\\\\\\"#0000ff\\\\\\\"}\\\",\\\"{\\\\\\\"name\\\\\\\":\\\\\\\"orange\\\\\\\",\\\\\\\"color\\\\\\\":\\\\\\\"#ffa500\\\\\\\"}\\\",\\\"{\\\\\\\"name\\\\\\\":\\\\\\\"cyan\\\\\\\",\\\\\\\"color\\\\\\\":\\\\\\\"#00ffff\\\\\\\"}\\\",\\\"{\\\\\\\"name\\\\\\\":\\\\\\\"pink\\\\\\\",\\\\\\\"color\\\\\\\":\\\\\\\"#ffc0cb\\\\\\\"}\\\"]\",\"disableEngineShadow\":\"true\"}","sep3":"","filter":"{\"il\":\"\",\"status\":\"false\",\"brightness\":\"1.3\",\"sep\":\"\",\"ss\":\"\",\"softShadow\":\"true\",\"softShadowStr\":\"1\",\"softShadowQlt\":\"2\"}"}},
 {"name":"HIME_CommonEventButtons","status":true,"description":"v1.1 - Allows you to execute common events with the press of a \r\nbutton on the map.","parameters":{}},
 {"name":"GALV_MessageStyles","status":false,"description":"(v.2.8) Settings to change how your \"Show Text\" messages look as well as code to make them floating.","parameters":{"Input Indicator":"2,0,-12","Indicator Zoom":"100","Message Padding":"0,0,0,0","Message Windowskin":"Window","Other Windowskins":"","Arrow Graphic":"TutorialTentacleIcon","Other Arrow Graphics":"","Windowskin Back Opacity":"192","Y Offset":"60","Font":"","Font Filename":"","Font Outline":"true","Font Size":"28"}},
 {"name":"GALV_MoveRouteExtras","status":true,"description":"Additional SCRIPT commands to use within MOVE ROUTES\r\nView the plugin \"Help\" to view available commands.","parameters":{}},
